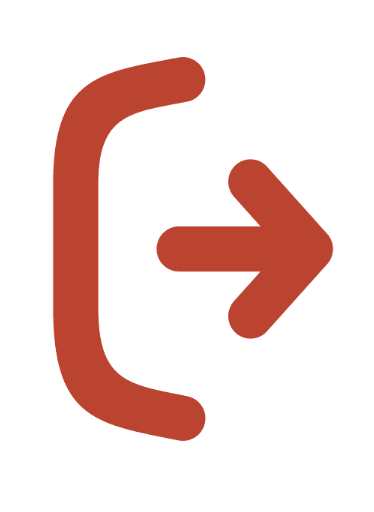
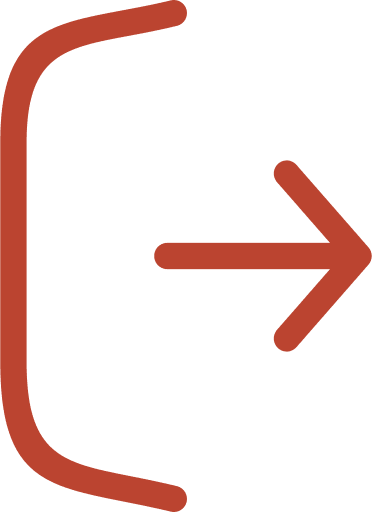
fixing header spacing

diff --git a/client/src/shared/Header.js b/client/src/shared/Header.js
@@ -5,11 +5,9 @@ import "./Header.css";
 import logo from "./assets/notey.png";
 import { Link, useNavigate } from "react-router-dom";
 import signOutIcon from "./assets/signout_icon.png";
-import settingsIcon from "./assets/settings_icon.png";
 import profileIcon from "./assets/profile_icon.png";
 import { useSelector, useDispatch } from "react-redux";
 import TaskModal from "./TaskModal.jsx";
-import noteyIcon from "./assets/notey.png";
 import darkIcon from "./assets/dark.png";
 import lightIcon from "./assets/light.png";
 
@@ -42,7 +40,6 @@ const Header = ({
     navigate("/");
   };
 
-
   return (
     <header className={`header ${isDarkMode ? "dark-mode" : ""}`}>
       <div className="logo-title d-flex align-items-center">
@@ -69,24 +66,34 @@ const Header = ({
       )}
       {showDashBoardButtons && (
         <div className="dashboard-buttons-container">
-          {user ? <p>{user.username}</p> : <p>no user signed in...</p>}
-          <Button className="dark-mode-toggle" onClick={handleDarkMode}>
+          <div className="dashboard-item">
+            {user ? <p>{user.username}</p> : <p>no user signed in...</p>}
+          </div>
+          <div className="dashboard-item">
+            <Button className="dark-mode-toggle" onClick={handleDarkMode}>
+              <img
+                src={isDarkMode ? lightIcon : darkIcon}
+                alt="Dark Mode Toggle"
+                className="dark-toggles"
+              />
+            </Button>
+          </div>
+          <div className="dashboard-item">
+            <Link to="/profile" className="profile-button">
+              <img src={profileIcon} alt="Profile" className="profile-icon" />
+            </Link>
+          </div>
+          <div className="dashboard-item">
             <img
-              src={isDarkMode ? lightIcon : darkIcon}
-              alt="Dark Mode Toggle"
-              className="dark-toggles"
+              src={signOutIcon}
+              alt="Sign Out"
+              className="sign-out-icon"
+              onClick={logoutUser}
             />
-          </Button>
-          <Link to="/profile" className="profile-button">
-            <img src={profileIcon} alt="Profile" className="profile-icon" />
-          </Link>
-          <img
-            src={signOutIcon}
-            alt="Sign Out"
-            className="sign-out-icon"
-            onClick={logoutUser}
-          />
-          <TaskModal tasks={tasks} uid={uid} />
+          </div>
+          <div className="dashboard-item">
+            <TaskModal tasks={tasks} uid={uid} />
+          </div>
         </div>
       )}
     </header>

diff --git a/client/src/shared/Header.css b/client/src/shared/Header.css
@@ -104,16 +104,9 @@
 }
 
 .sign-out-icon {
-  width: 35px;
-  height: 40px;
-  vertical-align: middle;
-}
-
-.search-icon {
-  width: 30px;
+  width: 25px;
   height: 30px;
   vertical-align: middle;
-  background-color: transparent !important;
 }
 
 .profile-icon {
@@ -130,9 +123,15 @@
 
 .dashboard-buttons-container {
   display: flex;
-  gap: 5px;
   align-items: center;
+  justify-content: space-between;
 }
+
+.dashboard-buttons-container > * {
+  margin-left: 5px;
+  margin-right: 5px;
+}
+
 
 .header.dark-mode {
   background-color: #1f1f1f;
@@ -205,4 +204,12 @@
   border: none !important; 
   padding-left: 8px;
   padding-right: 8px;
+}
+
+.header.dark-mode .logo,
+.header.dark-mode .profile-icon,
+.header.dark-mode .sign-out-icon{
+  filter: invert(100%);
+  -webkit-filter: invert(100%);
+  background-color: transparent !important;
 }
